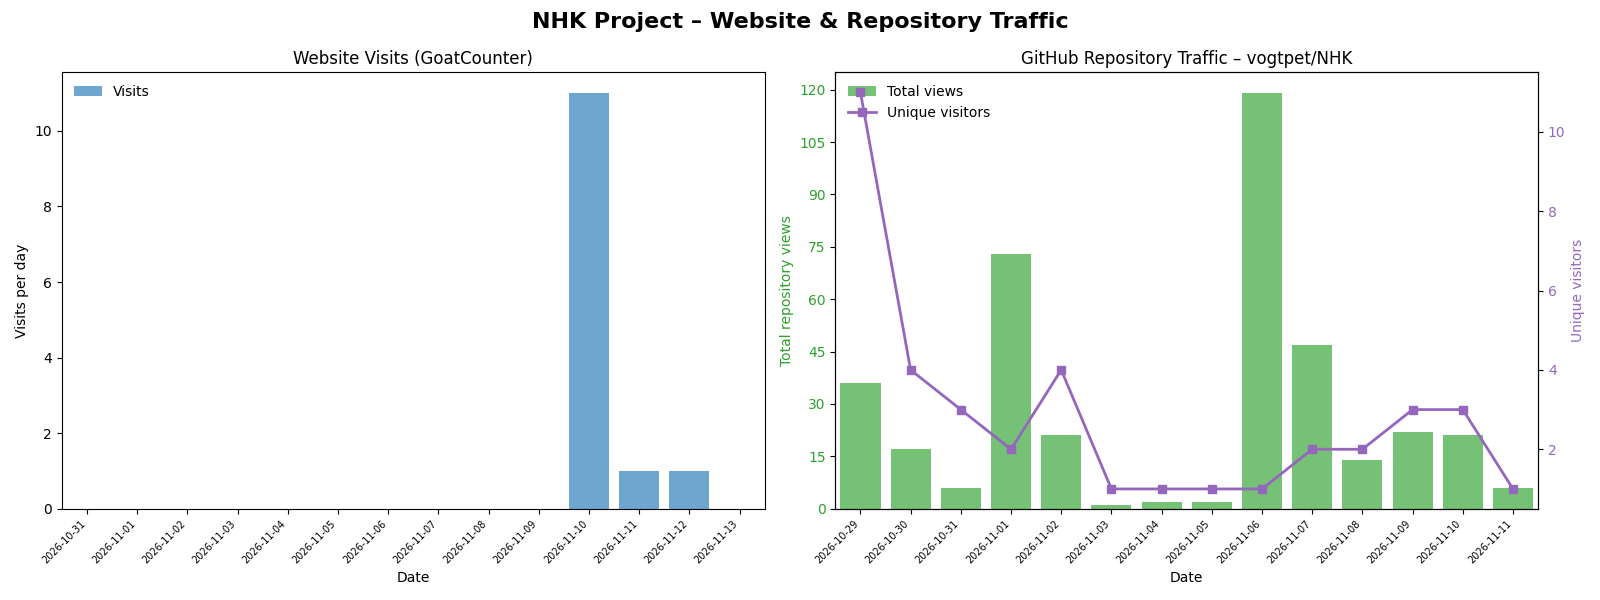
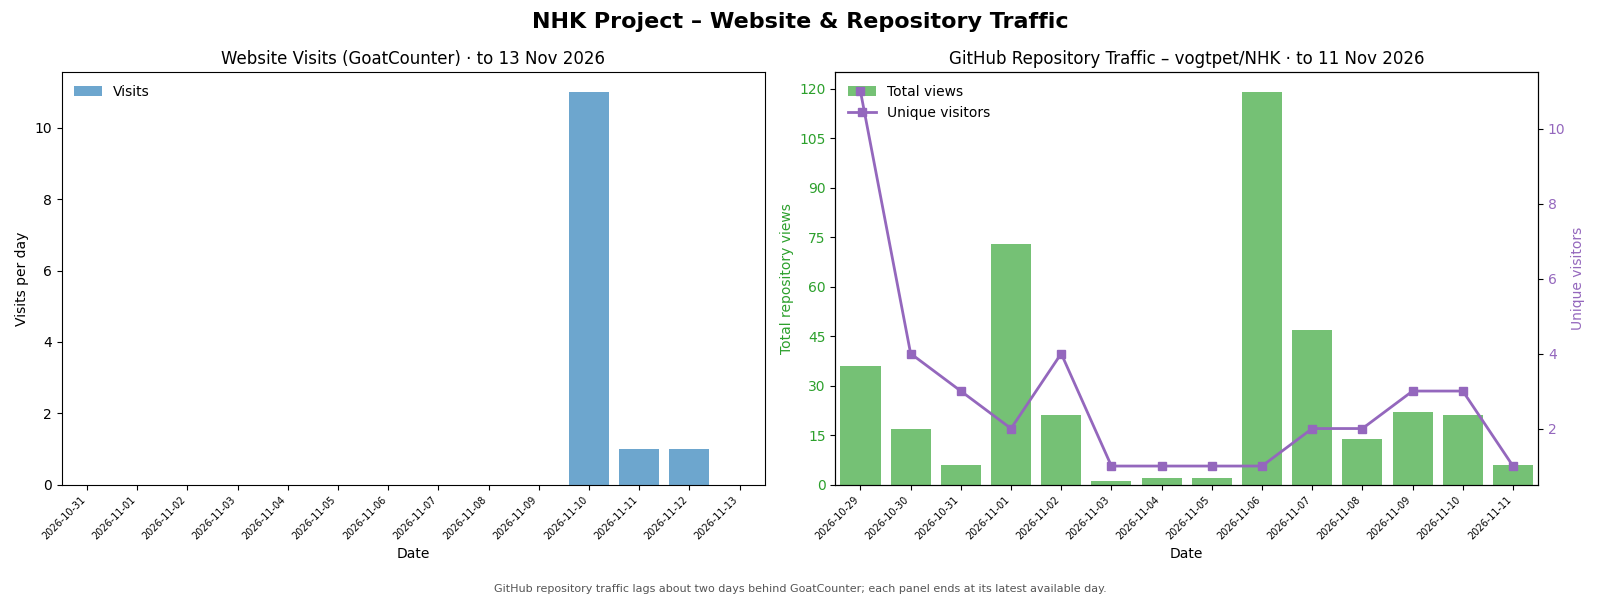
Label each dashboard panel with its latest data day
GoatCounter reports the current day while GitHub's traffic API lags about
two days, so the panels end on different dates. Show the end date in each
title and add a footnote explaining the lag.

diff --git a/tools/plot_dashboard.py b/tools/plot_dashboard.py
@@ -60,7 +60,9 @@ def generate_dashboard():
             df[date_col], df["visits"], color="tab:blue", alpha=0.65, width=0.8,
             label="Visits",
         )
-        ax_site.set_title("Website Visits (GoatCounter)")
+        ax_site.set_title(
+            f"Website Visits (GoatCounter) · to {df[date_col].iloc[-1]:%d %b %Y}"
+        )
         ax_site.set_ylabel("Visits per day")
         ax_site.yaxis.set_major_locator(MaxNLocator(integer=True))
         ax_site.set_xlabel("Date")
@@ -98,7 +100,9 @@ def generate_dashboard():
         ax_twin.tick_params(axis="y", labelcolor="tab:purple")
         ax_twin.yaxis.set_major_locator(MaxNLocator(integer=True))
 
-        ax_repo.set_title("GitHub Repository Traffic – vogtpet/NHK")
+        ax_repo.set_title(
+            f"GitHub Repository Traffic – vogtpet/NHK · to {df[date_col].iloc[-1]:%d %b %Y}"
+        )
         ax_repo.set_xlabel("Date")
         set_date_ticks(ax_repo, df, date_col)
         handles, labels = ax_repo.get_legend_handles_labels()
@@ -117,7 +121,17 @@ def generate_dashboard():
     fig.suptitle(
         "NHK Project – Website & Repository Traffic", fontsize=16, fontweight="bold"
     )
-    fig.tight_layout()
+    fig.text(
+        0.5,
+        0.01,
+        "GitHub repository traffic lags about two days behind GoatCounter; "
+        "each panel ends at its latest available day.",
+        ha="center",
+        va="bottom",
+        fontsize=8,
+        color="#555555",
+    )
+    fig.tight_layout(rect=(0, 0.04, 1, 1))
     plt.savefig(OUTPUT_IMAGE, dpi=100)
     plt.close(fig)
     print(f"Dashboard written to {OUTPUT_IMAGE}")
